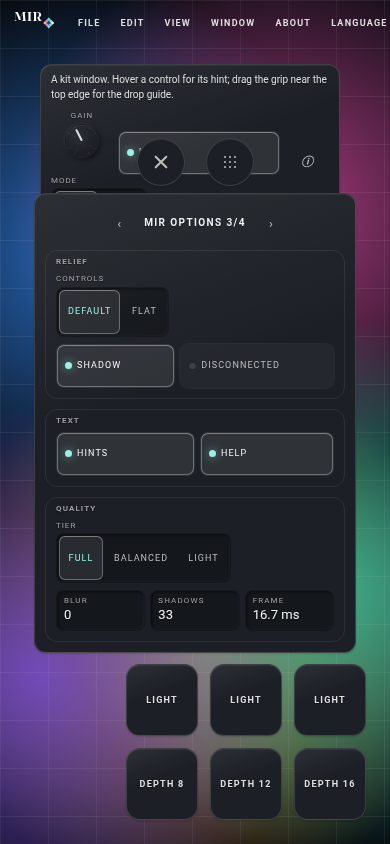
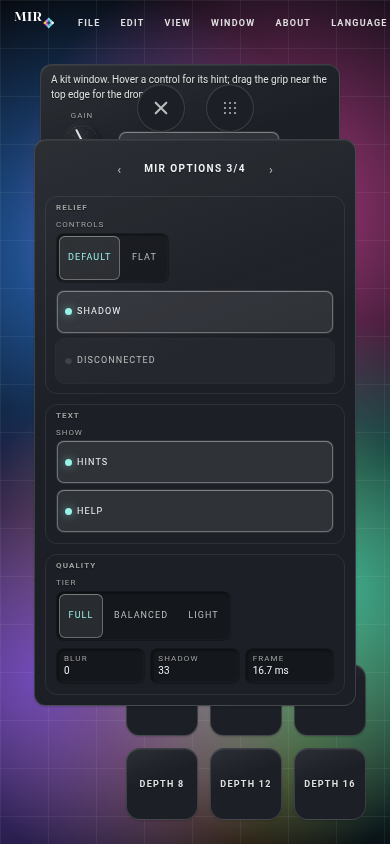
MIR 1.5.0-alpha.3: the GUI window — layout pass
OPTIONS is one even grid: five equal columns, two rows (PRESET · SKIN · ACCENT · TEXT ·
QUALITY / MATERIAL ×2 · RELIEF · MOTION ×2), so column edges, gutters, title insets and
first-control label baselines are shared; no group child may shrink, so every title keeps
its inset. MATERIAL's two choices sit side by side over its four dials; TEXT gets a SHOW
label like its neighbours; RESET LOOK is a natural-width kit trigger, no longer stretched.
Plates retaken.

Claude-Session: https://claude.ai/code/session_01216PZJdRDXuZKuuo4X6KUw

diff --git a/mir/shell/gui.js b/mir/shell/gui.js
@@ -218,8 +218,8 @@ export function createGui({ host, prefs, app = {}, about = {}, accent, defaults 
 
   /* MATERIAL */
   g = groupEl('material', 'MATERIAL');
-  line(g).append(segOf('card', 'PANE', [['tinted', 'TINTED', 'A tinted pane: no blur, no compositor cost'], ['refractive', 'REFRACTIVE', 'The blur alone, with a veil']]).root);
-  line(g).append(segOf('frost', 'FROST', [['off', 'OFF'], ['still', 'STILL', 'Frost while the picture is still'], ['always', 'ALWAYS', 'Frost always: the costliest']]).root);
+  line(g, 'gui-pair').append(segOf('card', 'PANE', [['tinted', 'TINTED', 'A tinted pane: no blur, no compositor cost'], ['refractive', 'REFRACTIVE', 'The blur alone, with a veil']]).root,
+    segOf('frost', 'FROST', [['off', 'OFF'], ['still', 'STILL', 'Frost while the picture is still'], ['always', 'ALWAYS', 'Frost always: the costliest']]).root);
   const kBlur = knobOf('blur', 'BLUR', { min: 0, max: 40, fmt: (v) => Math.round(v) + 'px' });
   const kVeil = knobOf('veil', 'VEIL', { min: 0, max: 40, fmt: (v) => Math.round(v) + '%' });
   const kSat = knobOf('saturation', 'SATURATION', { min: 0.5, max: 2, fmt: (v) => Math.round(v * 100) + '%' });
@@ -229,23 +229,24 @@ export function createGui({ host, prefs, app = {}, about = {}, accent, defaults 
   /* RELIEF */
   g = groupEl('relief', 'RELIEF');
   line(g).append(segOf('relief', 'CONTROLS', [['default', 'DEFAULT', 'Raised controls and wells'], ['flat', 'FLAT', 'No control relief']]).root);
-  line(g, 'gui-sws').append(swOf('shadow', 'SHADOW', 'Pane shadows').root, swOf('disconnected', 'DISCONNECTED', 'Window headers apart from their bodies').root);
+  line(g, 'gui-sws gui-col').append(swOf('shadow', 'SHADOW', 'Pane shadows').root, swOf('disconnected', 'DISCONNECTED', 'Window headers apart from their bodies').root);
 
   /* MOTION */
   g = groupEl('motion', 'MOTION');
   line(g).append(segOf('motion', 'MOTION', [['auto', 'AUTO', 'Follow the system'], ['full', 'FULL'], ['reduced', 'REDUCED', 'Fades only: nothing travels'], ['off', 'OFF', 'Nothing animates']]).root);
   line(g, 'gui-sws').append(swOf('glow', 'POINTER GLOW', 'A soft light follows the pointer over lit surfaces (never on touch)').root,
-    swOf('parallax', 'PARALLAX', 'Marked layers drift against the pointer (never on touch)').root);
-  line(g, 'gui-sws').append(swOf('dropGuides', 'DROP GUIDES', 'The dotted guide where a dragged window will land').root);
+    swOf('parallax', 'PARALLAX', 'Marked layers drift against the pointer (never on touch)').root,
+    swOf('dropGuides', 'DROP GUIDES', 'The dotted guide where a dragged window will land').root);
 
   /* TEXT */
   g = groupEl('text', 'TEXT');
-  line(g, 'gui-sws').append(swOf('hints', 'HINTS', 'Hover hints on controls').root, swOf('help', 'HELP', 'The ⓘ panels on windows').root);
+  const shows = el('div', 'segw gui-show', line(g)); el('div', 'k-lbl', shows, 'SHOW');      // a label like every first control's, so the labels share a baseline
+  el('div', 'gui-line gui-sws gui-col', shows).append(swOf('hints', 'HINTS', 'Hover hints on controls').root, swOf('help', 'HELP', 'The ⓘ panels on windows').root);
 
   /* QUALITY — and what it costs */
   g = groupEl('quality', 'QUALITY');
   line(g).append(segOf('quality', 'TIER', [['full', 'FULL', 'Everything'], ['balanced', 'BALANCED', 'No blur anywhere, one shadow layer'], ['light', 'LIGHT', 'No blur, no relief, no shadows, no motion']]).root);
-  const roBlur = readout({ label: 'BLUR', value: '—' }), roShadow = readout({ label: 'SHADOWS', value: '—' }), roFrame = readout({ label: 'FRAME', value: '—' });
+  const roBlur = readout({ label: 'BLUR', value: '—' }), roShadow = readout({ label: 'SHADOW', value: '—' }), roFrame = readout({ label: 'FRAME', value: '—' });
   for (const r of [roBlur, roShadow, roFrame]) { r.root.classList.add('gui-ro'); r.root.title = 'What the look costs, measured after the last change'; }
   roBlur.root.title = 'Surfaces that blur what is behind them: one compositor pass each';
   roShadow.root.title = 'Surfaces that draw a shadow';

diff --git a/mir/shell/gui.css b/mir/shell/gui.css
@@ -11,7 +11,7 @@
 @layer mir.kit.house {
 
 .mir-gui {
-  --gui-col: 196px;                                         /* a group's narrowest column */
+  --gui-col: 208px;                                         /* one grid column: every group is one or two of them */
   --gui-col-narrow: 300px;                                  /* the one column of a phone sheet */
   --gui-about-w: 440px;
   --gui-about-w-narrow: 300px;
@@ -29,8 +29,8 @@
 /* ── OPTIONS: the grid ── */
 .gui-grid {
   display: grid; gap: var(--gui-gap); width: max-content; align-items: stretch;
-  grid-template-columns: repeat(4, minmax(var(--gui-col), max-content));
-  grid-template-areas: "preset skin accent quality" "material material relief motion" "material material text motion";
+  grid-template-columns: repeat(5, var(--gui-col));         /* equal columns: shared edges, equal gutters */
+  grid-template-areas: "preset skin accent text quality" "material material relief motion motion";
 }
 .gui-grp[data-group="preset"] { grid-area: preset; }
 .gui-grp[data-group="skin"] { grid-area: skin; }
@@ -44,16 +44,20 @@
   display: flex; flex-direction: column; gap: var(--sp-3); min-width: 0; margin: 0;
   padding: var(--gui-grp-pad); border: var(--glass-border) solid var(--glass-hairline); border-radius: var(--gui-grp-r);
 }
+.gui-grp > * { flex-shrink: 0; }                            /* a title or a row never gives up height: every title keeps the same inset */
 /* a group's title is the house label */
 .gui-grp-lbl { margin: 0; font-size: var(--fs-micro); font-weight: var(--w-bold); letter-spacing: var(--label-tracking, var(--tr-wider)); color: var(--ink-faint); line-height: 1; }
 .gui-line { display: flex; flex-wrap: wrap; align-items: flex-end; gap: var(--sp-2); }
 .gui-line.gui-knobs { justify-content: space-between; flex-wrap: nowrap; }
-.gui-line.gui-sws > .sw { flex: 1 1 auto; }
-.gui-line > .trig { flex: 1 1 auto; }
+.gui-line.gui-pair { gap: var(--gui-gap); flex-wrap: nowrap; }
+.gui-line.gui-sws > .sw { flex: 1 1 0; justify-content: flex-start; }
+.gui-line.gui-col { flex-direction: column; align-items: stretch; }   /* switches one under another */
+.gui-show { flex: 1 1 auto; align-items: stretch; }
 .gui-note { font-size: var(--fs-tiny); letter-spacing: var(--label-tracking, var(--tr-wide)); color: var(--ink-faint); }
 .gui-cost { flex-wrap: nowrap; }
 .gui-cost > .ro { flex: 1 1 0; }
 .gui-ro .ro-sub { display: none; }
+.gui-ro .ro-val { font-size: var(--fs-small); }
 
 /* ── the stepper: ‹ NAME › ── */
 .gui-step { display: flex; flex-direction: column; gap: 2px; align-items: flex-start; }
@@ -85,6 +89,7 @@
 @media (max-width: 720px) {
   .gui-grid { grid-template-columns: var(--gui-col-narrow); grid-template-areas: none; }
   .gui-grid > .gui-grp { grid-area: auto; }
+  .gui-line.gui-pair { flex-wrap: wrap; }
   .gui-options[data-sheet="1"] .gui-grp:not([data-sheet="1"]),
   .gui-options[data-sheet="2"] .gui-grp:not([data-sheet="2"]),
   .gui-options[data-sheet="3"] .gui-grp:not([data-sheet="3"]),

diff --git a/docs/GUI.md b/docs/GUI.md
@@ -90,7 +90,7 @@ Every control on MIR OPTIONS changes what is drawn through a hook a kit sheet or
 | TEXT | HINTS | switch | `body.control-hints-off` (`control-help.js`) | on |
 | | HELP | switch | `body.window-info-off` (skin.css hides every ⓘ) | on |
 | QUALITY | FULL · BALANCED · LIGHT | seg | `<html data-ui-tier>`: none · `lite` · `flat` (`docs/TIERS.md`) | FULL |
-| | BLUR · SHADOWS · FRAME | readouts | the cost of the look (below) | |
+| | BLUR · SHADOW · FRAME | readouts | the cost of the look (below) | |
 
 **The presets** set only MATERIAL, RELIEF and QUALITY. Theme, accents, motion and text are the user's own, and no preset touches them.
 
@@ -104,7 +104,7 @@ Every control on MIR OPTIONS changes what is drawn through a hook a kit sheet or
 
 **The cost reading** answers "beautiful but cost heavy". After every change, while MIR OPTIONS is showing, QUALITY reads:
 - **BLUR** — how many visible surfaces (elements and their drawn `::before`/`::after`) carry a backdrop filter: each is a compositor pass.
-- **SHADOWS** — how many draw a shadow.
+- **SHADOW** — how many draw a shadow.
 - **FRAME** — the mean frame time over the next 30 frames.
 
 It is taken once per change and never on a timer, so the reading costs nothing at rest. In the gallery, CLASSIC reads BLUR 0, GLASS reads BLUR 16.
@@ -132,7 +132,9 @@ It is built on the kit's window (`mir/window/window.js`), not the notebook's fre
 
 The notebook form would have meant a second drag and resize machinery for one more window.
 
-**Nothing scrolls.** Each page is laid out at its natural size: the grid's columns are content-sized with a 196 px floor, and ABOUT is one 440 px column. The window is placed to fit the page (one layout read per page turn or change), centred where it was.
+**The layout.** OPTIONS is one even grid of five equal 208 px columns and two rows, so every group shares its column edges, gutters and title inset, and each row's first control labels share a baseline: PRESET · SKIN · ACCENT · TEXT · QUALITY, then MATERIAL (two columns: its two choices side by side over its four dials) · RELIEF · MOTION (two columns).
+
+**Nothing scrolls.** Each page is laid out at its natural size (ABOUT is one 440 px column). The window is placed to fit the page (one layout read per page turn or change), centred where it was.
 
 **At 720 px wide and under**, the grid is one 300 px column. OPTIONS splits into four sheets — PRESET · SKIN · ACCENT, then MATERIAL, then RELIEF · TEXT · QUALITY, then MOTION — and the page turner steps through them, then ABOUT.
 
